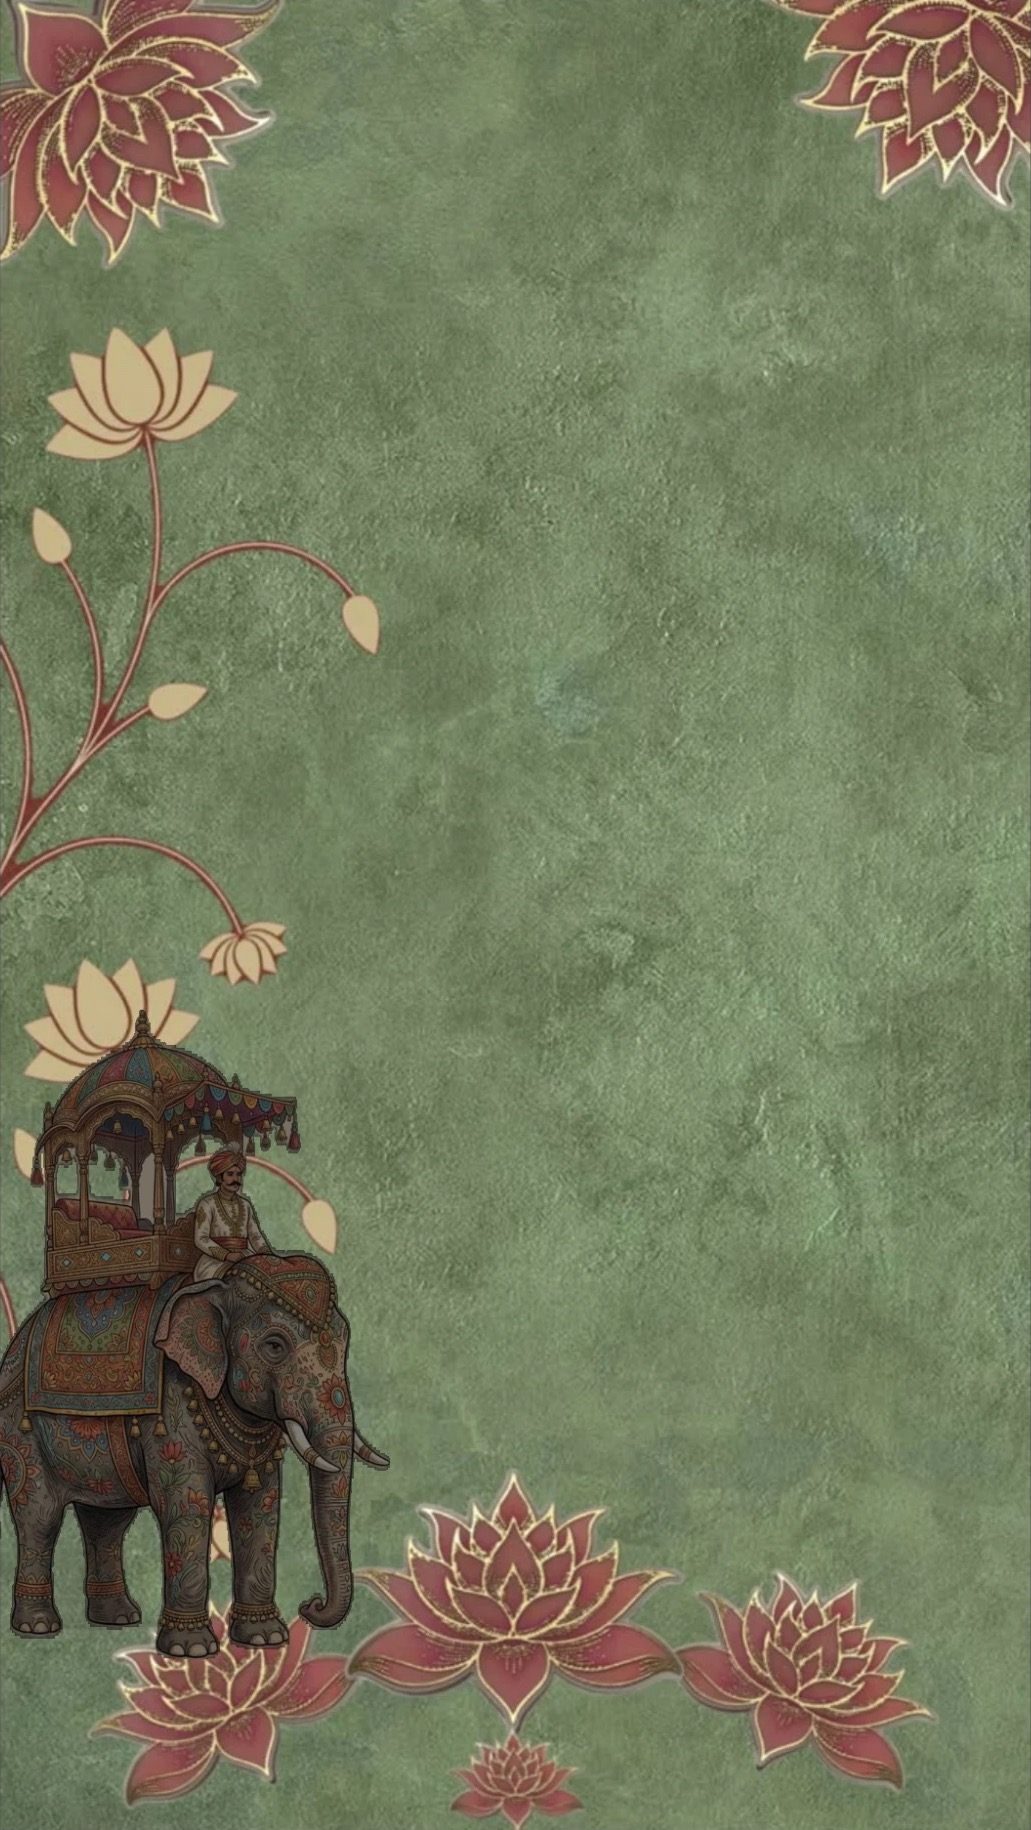
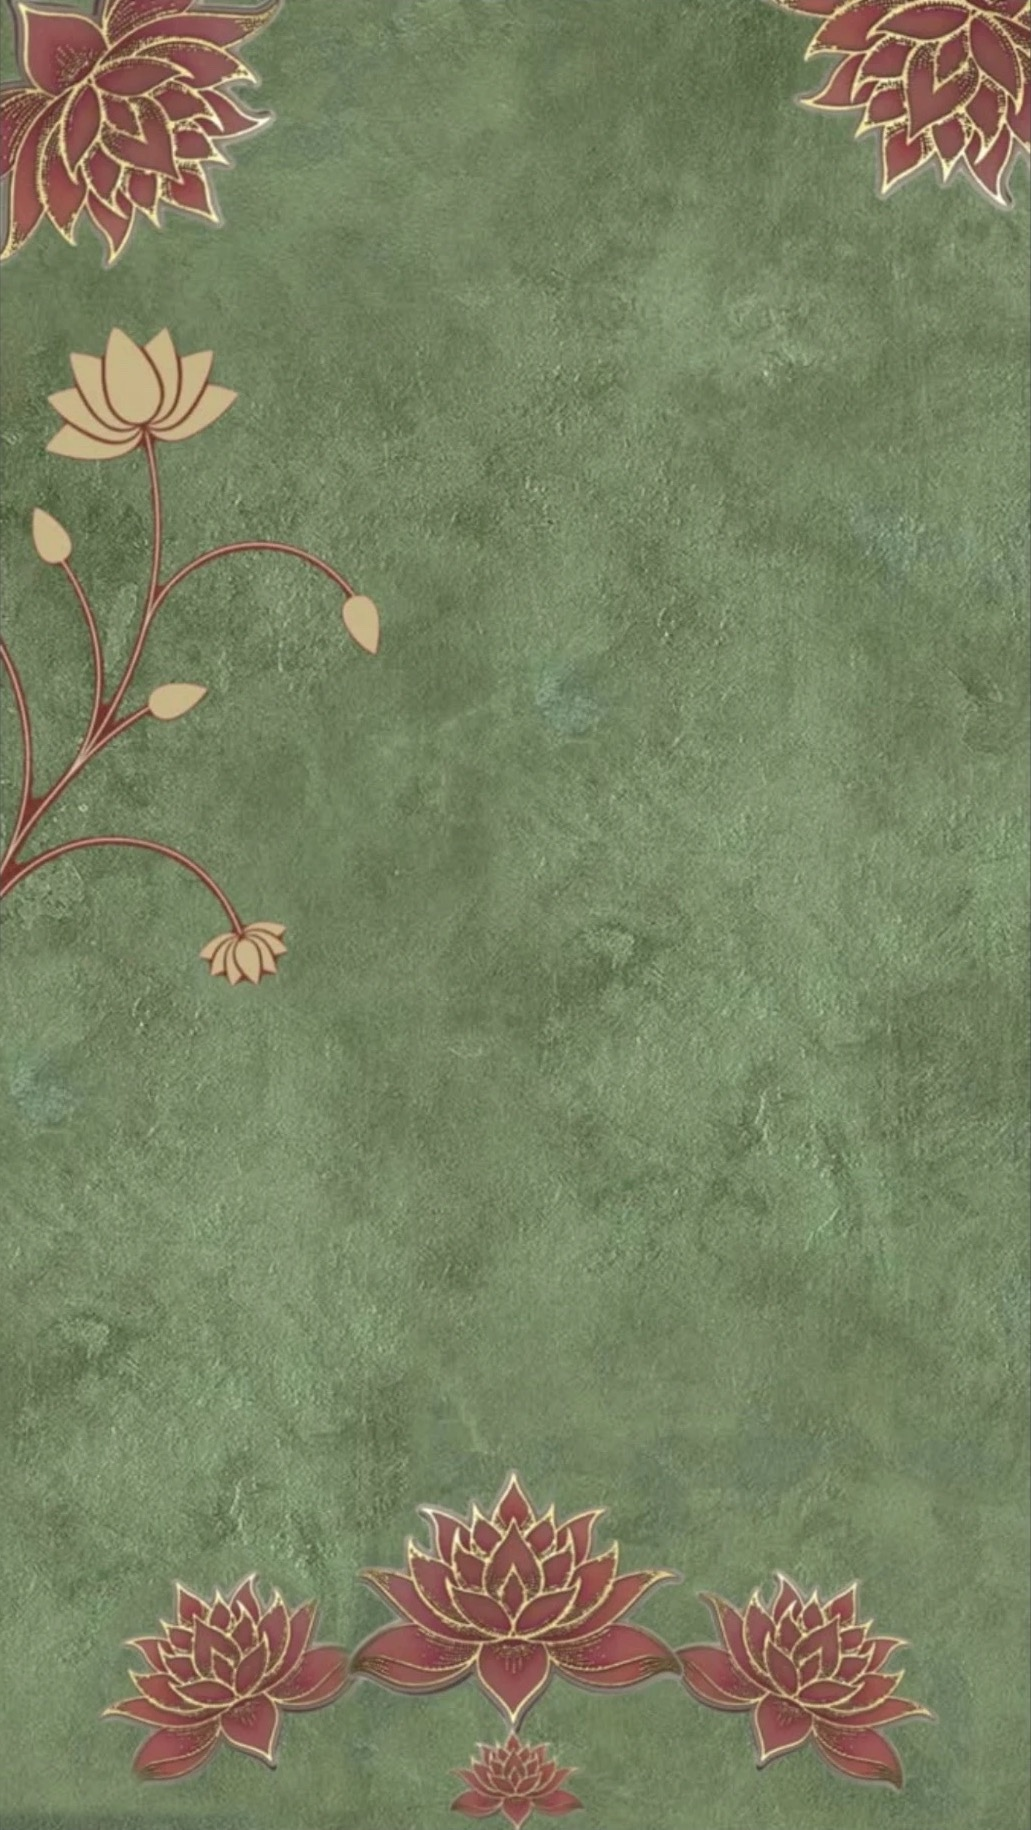
Remove the elephant and add a western opening card

Changed region(s): [[0.0, 0.5295, 0.3725, 0.9967], [0.3725, 0.623, 0.4035, 0.6541]]

diff --git a/index.html b/index.html
@@ -10,9 +10,9 @@
   <link rel="preconnect" href="https://fonts.googleapis.com">
   <link rel="preconnect" href="https://fonts.gstatic.com" crossorigin>
   <link href="https://fonts.googleapis.com/css2?family=Cormorant+Garamond:ital,wght@0,500;0,600;1,500&family=Great+Vibes&family=Mulish:wght@400;600&family=Noto+Serif+Devanagari:wght@500&display=swap" rel="stylesheet">
-  <link rel="stylesheet" href="style.css?v=24">
-  <link rel="stylesheet" href="traditional.css?v=24">
-  <noscript><style>.cover { display: none; }</style></noscript>
+  <link rel="stylesheet" href="style.css?v=26">
+  <link rel="stylesheet" href="traditional.css?v=26">
+  <noscript><style>.cover { display: none; } .reveal { opacity: 1 !important; transform: none !important; }</style></noscript>
 </head>
 <body class="traditional">
 
@@ -44,7 +44,7 @@
       <p class="date">Thursday<strong>11th February 2027</strong></p>
     </div>
   </div>
-    <button type="button" class="cover" id="cover" aria-label="Open the invitation">
+    <button type="button" class="cover" aria-label="Open the invitation">
       <span class="door left" aria-hidden="true">
         <span class="face">
           <span class="cover-lotus"></span>
@@ -66,23 +66,42 @@
   <a class="button" href="https://docs.google.com/forms/d/e/1FAIpQLSfiQAQg2mRw57GE8Tck1y_NnE_fe-71mMIX1eUj4sdcQ4Ieeg/viewform" target="_blank" rel="noopener">RSVP</a>
 </article>
 
-<header class="hero west-only">
-  <figure class="portrait">
-    <img src="images/couple-western.jpg" alt="Varshitha and Vishruth in old west costumes">
-  </figure>
-  <div class="hero-text">
-    <p class="eyebrow">We are getting married</p>
-    <h1>Varshitha <span>&amp;</span> Vishruth</h1>
-    <p class="date">Thursday, February 11, 2027</p>
-    <p class="place">Austin Hindu Temple &middot; Austin, Texas</p>
-    <div class="countdown" id="countdown" aria-label="Time until the muhurtam">
-      <div><strong id="cd-days">0</strong><span>Days</span></div>
-      <div><strong id="cd-hours">0</strong><span>Hours</span></div>
-      <div><strong id="cd-mins">0</strong><span>Minutes</span></div>
+<article class="invite-card west-only" aria-label="Wedding invitation, western look">
+  <div class="book">
+    <div class="west-card">
+      <img class="reveal" src="images/couple-western.jpg" alt="Varshitha and Vishruth in old west costumes">
+      <div class="west-words">
+        <p class="eyebrow">We are getting married</p>
+        <p class="request">We request your gracious presence<br>on the auspicious occasion<br>of the marriage of</p>
+        <h1>Varshitha</h1>
+        <p class="parents">D/O Smt Vanishree M &amp;<br>Sri Manjunath M</p>
+        <p class="amp">&amp;</p>
+        <h2>Vishruth</h2>
+        <p class="parents">S/O Smt MLV Archana &amp;<br>Sri Suresh Yernool</p>
+        <p class="date">Thursday<strong>11th February 2027</strong></p>
+      </div>
     </div>
-    <a class="button" href="https://docs.google.com/forms/d/e/1FAIpQLSfiQAQg2mRw57GE8Tck1y_NnE_fe-71mMIX1eUj4sdcQ4Ieeg/viewform" target="_blank" rel="noopener">RSVP</a>
+    <button type="button" class="cover" aria-label="Open the invitation">
+      <span class="door left" aria-hidden="true">
+        <span class="face">
+          <span class="cover-star">&#9733;</span>
+          <span class="cover-initials">V &amp; V</span>
+          <span class="cover-title">Wedding Invitation</span>
+          <span class="cover-hint">Tap to open</span>
+        </span>
+      </span>
+      <span class="door right" aria-hidden="true">
+        <span class="face">
+          <span class="cover-star">&#9733;</span>
+          <span class="cover-initials">V &amp; V</span>
+          <span class="cover-title">Wedding Invitation</span>
+          <span class="cover-hint">Tap to open</span>
+        </span>
+      </span>
+    </button>
   </div>
-</header>
+  <a class="button" href="https://docs.google.com/forms/d/e/1FAIpQLSfiQAQg2mRw57GE8Tck1y_NnE_fe-71mMIX1eUj4sdcQ4Ieeg/viewform" target="_blank" rel="noopener">RSVP</a>
+</article>
 
 <main>
   <section id="events" class="events">
@@ -135,7 +154,7 @@
 
 <button type="button" class="switch" id="theme-switch">Western look</button>
 
-<script src="config.js?v=24"></script>
-<script src="script.js?v=24"></script>
+<script src="config.js?v=26"></script>
+<script src="script.js?v=26"></script>
 </body>
 </html>

diff --git a/traditional.css b/traditional.css
@@ -11,7 +11,7 @@ body.traditional { --night: #333d30; --plum: #46533f; --wine: #7d2e34; --gold: #
 body.traditional nav { background: rgba(51, 61, 48, .96); }
 
 .invite-card { max-width: 600px; margin: 0 auto; padding: 78px 14px 36px; text-align: center; }
-.template { position: relative; aspect-ratio: 1031 / 1830; container-type: inline-size; background: url("images/invite-art.jpg") center / cover; box-shadow: 0 14px 36px rgba(0, 0, 0, .35);
+.template { position: relative; aspect-ratio: 1031 / 1830; container-type: inline-size; background: url("images/invite-art.jpg?v=26") center / cover; box-shadow: 0 14px 36px rgba(0, 0, 0, .35);
   color: #fff8e4; text-shadow: 0 1px 3px rgba(24, 36, 18, .75); font-variant-numeric: lining-nums; }
 
 /* top line sits between the two corner lotuses */
@@ -76,3 +76,22 @@ body.traditional footer .script { color: #ffe8ac; }
   .book.open .door { transform: none; opacity: 0; }
   .face .cover-hint { animation: none; }
 }
+
+/* Western look: the same opening card in plum and gold; the photo appears as the cover opens */
+body:not(.traditional) .invite-card { padding-top: 78px; }
+.west-card { padding: 6cqw 6cqw 9cqw; background: radial-gradient(ellipse at 50% 35%, #3a1a2a, #1d0d15 75%); border: 2px solid var(--gold);
+  outline: 1px solid var(--gold); outline-offset: -3cqw; box-shadow: 0 14px 36px rgba(0, 0, 0, .45); color: #f7efe1; }
+.reveal { display: block; width: 100%; aspect-ratio: 2 / 3; object-fit: cover; border-radius: 999px 999px 6px 6px; border: 1px solid var(--gold);
+  opacity: 0; transform: scale(.9); transition: opacity 1.4s ease, transform 1.8s ease; }
+.book.open .reveal { opacity: 1; transform: none; transition-delay: .7s; }
+.west-words { font: 600 4.3cqw/1.4 "Cormorant Garamond", Georgia, serif; font-variant-numeric: lining-nums; }
+.west-words .eyebrow { font: 600 3.1cqw Mulish, system-ui, sans-serif; margin: 6cqw 0 3cqw; color: var(--gold); }
+.west-words .request { font-style: italic; }
+.west-words h1, .west-words h2 { font: 400 15cqw/1.2 "Great Vibes", cursive; color: #ffe8ac; margin: 1cqw 0 0; }
+.west-words .amp { font: 400 8cqw/1.2 "Great Vibes", cursive; color: var(--gold); margin-top: 2cqw; }
+.west-words .date { margin-top: 6cqw; text-transform: uppercase; letter-spacing: .18em; font-size: 3.8cqw; }
+body:not(.traditional) .invite-card .button { background: var(--gold); color: var(--night); border: 0; }
+.west-only .face { background: radial-gradient(ellipse at 50% 40%, #4a2033, #1d0d15 80%); }
+.face .cover-star { font-size: 18cqw; line-height: 1.4; color: var(--gold); }
+.west-only .face .cover-hint { background: var(--gold); color: #1d0d15; }
+@media (prefers-reduced-motion: reduce) { .reveal { transform: none; transition: opacity .3s; } .book.open .reveal { transition-delay: 0s; } }

diff --git a/script.js b/script.js
@@ -1,20 +1,3 @@
-// Muhurtam: February 11, 2027, 11:00 AM Central Standard Time
-const muhurtam = new Date("2027-02-11T11:00:00-06:00");
-
-function updateCountdown() {
-  const left = muhurtam - Date.now();
-  if (left <= 0) {
-    document.getElementById("countdown").hidden = true;
-    return;
-  }
-  const mins = Math.floor(left / 60000);
-  document.getElementById("cd-days").textContent = Math.floor(mins / 1440);
-  document.getElementById("cd-hours").textContent = Math.floor(mins / 60) % 24;
-  document.getElementById("cd-mins").textContent = mins % 60;
-}
-updateCountdown();
-setInterval(updateCountdown, 30000);
-
 if (RSVP_FORM_URL) {
   const button = document.getElementById("rsvp-button");
   button.href = RSVP_FORM_URL;
@@ -43,6 +26,11 @@ themeSwitch.addEventListener("click", () => {
   window.scrollTo({ top: 0, behavior: "instant" });
 });
 
-// The invitation starts closed; tapping the cover swings it open.
-const cover = document.getElementById("cover");
-cover.addEventListener("click", () => cover.parentElement.classList.add("open"));
+// Each invitation starts closed; tapping its cover swings it open.
+document.querySelectorAll(".cover").forEach((cover) => {
+  cover.addEventListener("click", () => cover.parentElement.classList.add("open"));
+});
+// Switching looks closes the cards again, so the opening can be seen each time.
+themeSwitch.addEventListener("click", () => {
+  document.querySelectorAll(".book").forEach((book) => book.classList.remove("open"));
+});
